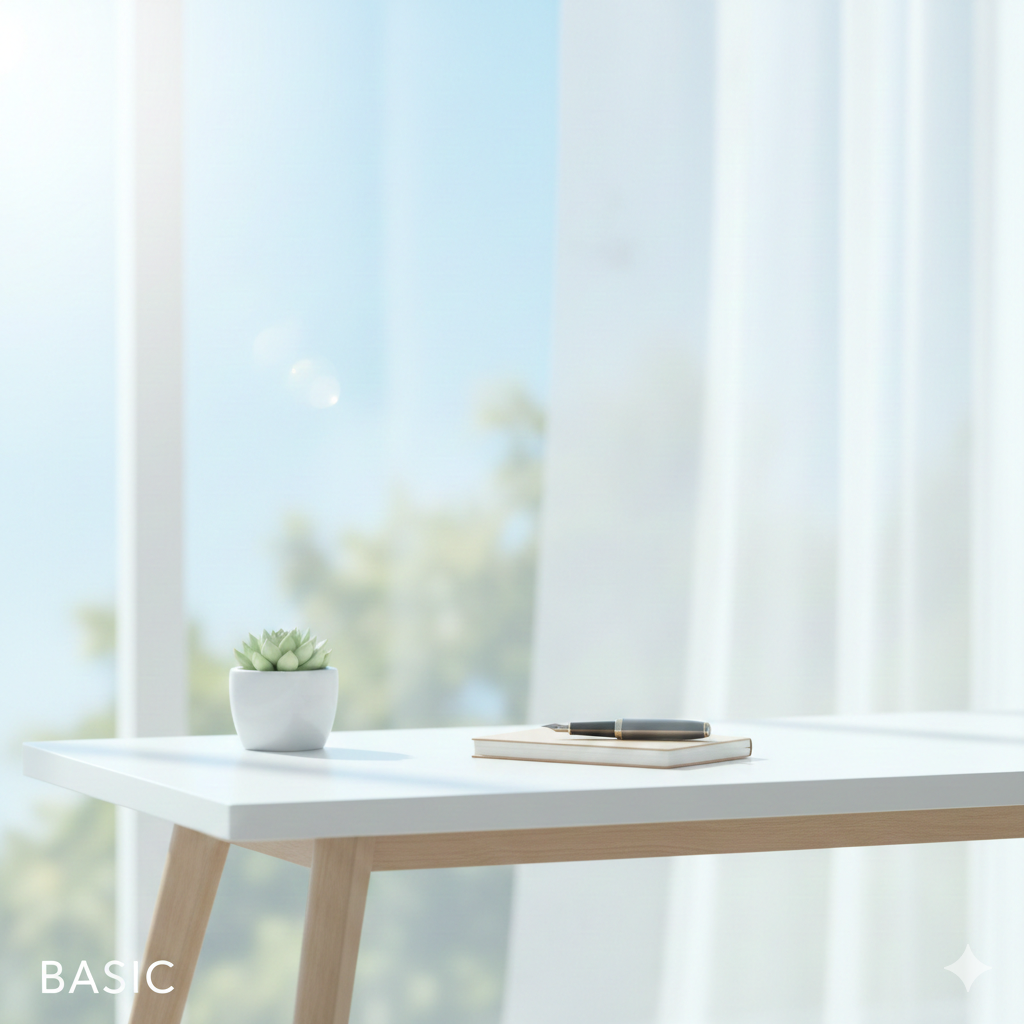
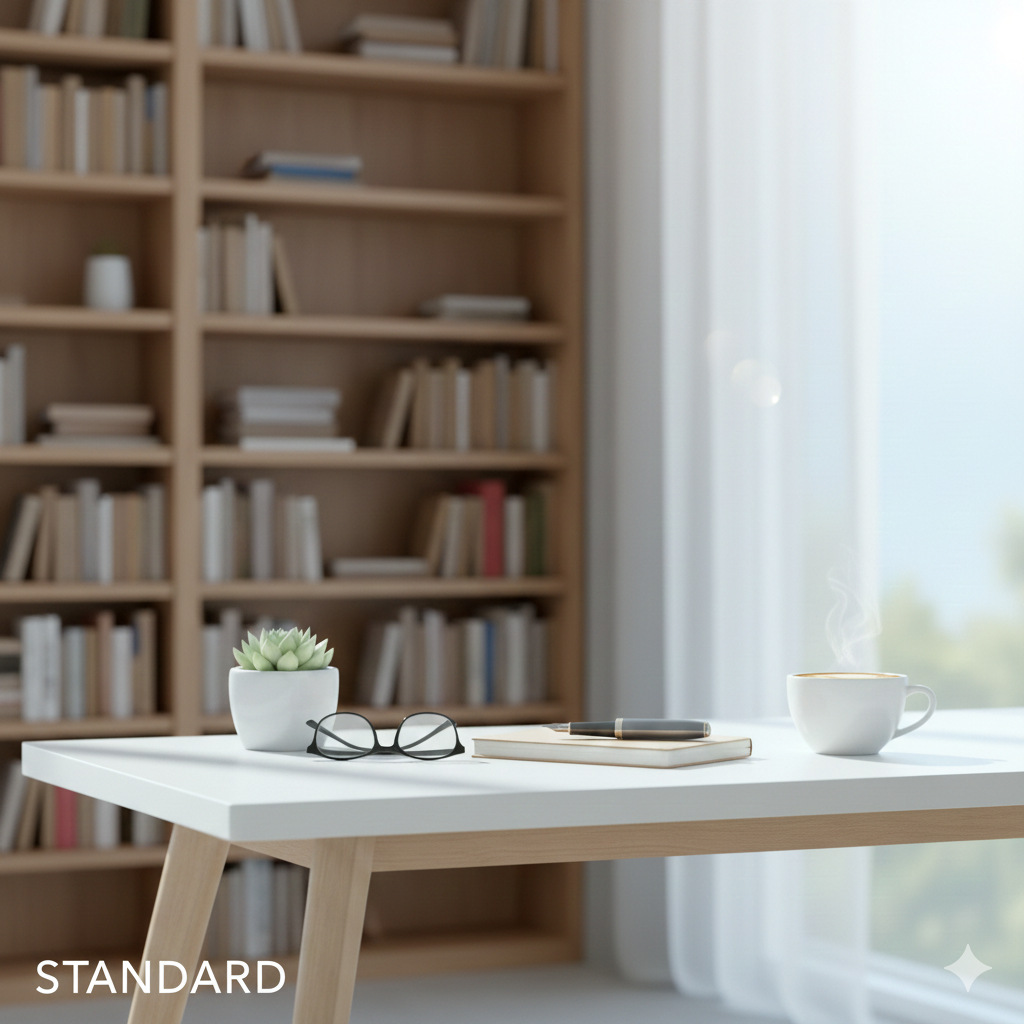
index page update

diff --git a/index.html b/index.html
@@ -86,7 +86,14 @@
                     </ul>
                 </div>
                 <div class="course-tab-nav">
-                    <button class="course-tab-btn active" data-tier="basic" onclick="selectCourse('basic')">
+                    <button class="course-tab-btn active" data-tier="mbti" onclick="selectCourse('mbti')">
+                        <div class="tab-icon">⁉</div>
+                        <div class="tab-info">
+                            <span class="tab-name">학습법 MBTI</span>
+                            <span class="tab-sub">특성파악/확인</span>
+                        </div>
+                    </button>
+                    <button class="course-tab-btn" data-tier="basic" onclick="selectCourse('basic')">
                         <div class="tab-icon">🌱</div>
                         <div class="tab-info">
                             <span class="tab-name">BASIC</span>
@@ -104,14 +111,7 @@
                         <div class="tab-icon">🔥</div>
                         <div class="tab-info">
                             <span class="tab-name">PRO</span>
-                            <span class="tab-sub">최적화/코칭</span>
-                        </div>
-                    </button>
-                    <button class="course-tab-btn tab-black" data-tier="black" onclick="selectCourse('black')">
-                        <div class="tab-icon">👑</div>
-                        <div class="tab-info">
-                            <span class="tab-name">BLACK</span>
-                            <span class="tab-sub">직접 관리</span>
+                            <span class="tab-sub">최적화/개인별맞춤</span>
                         </div>
                     </button>
                 </div>

diff --git a/js/script.js b/js/script.js
@@ -36,6 +36,14 @@ window.onclick = function(event) {
 
 // 코스 데이터
 const COURSE_DATA = {
+    mbti: {
+        title: "MBTI SOLUTION",
+        price: "무료",
+        desc: "탐구 MBTI 결과를 분석해 나의 학습 성향을 파악하고, 성적 상승을 위한 최적의 맞춤 공부법을 제안합니다.",
+        list: ["탐구 MBTI 기반 학습 성향 정밀 진단", "유형별 학습 강점 및 취약점 분석 리포트", "성향에 딱 맞는 과목별 맞춤 공부법 솔루션 제공"],
+        bg: "assets/backgrounds/bg_mbti.png",
+        themeColor: "#8B5CF6"
+    },
     basic: {
         title: "BASIC PLAN",
         price: "49,000원",
@@ -59,14 +67,6 @@ const COURSE_DATA = {
         list: ["STANDARD 포함 + 목표 대학 6곳 확장", "최소 점수 상승 조합 최적화 알고리즘", "내 점수에 가장 유리한 대학 역추적", "주 1회 심층 전략 코칭"],
         bg: "assets/backgrounds/bg_pro.png", 
         themeColor: "#E11D48"
-    },
-    black: {
-        title: "BLACK CLUB",
-        price: "가격 비공개 (문의)",
-        desc: "상위 1%를 위한 프라이빗 컨설팅. 컨설턴트가 직접 전략에 개입합니다.",
-        list: ["PRO 기능 전부 포함", "컨설턴트 직접 관리 및 입시 전략 수립", "시기별 우선 대응 및 시크릿 리포트", "BLACK 전용 라운지 접근 권한"],
-        bg: "assets/backgrounds/bg_black.png", 
-        themeColor: "#000000"
     }
 };
 
